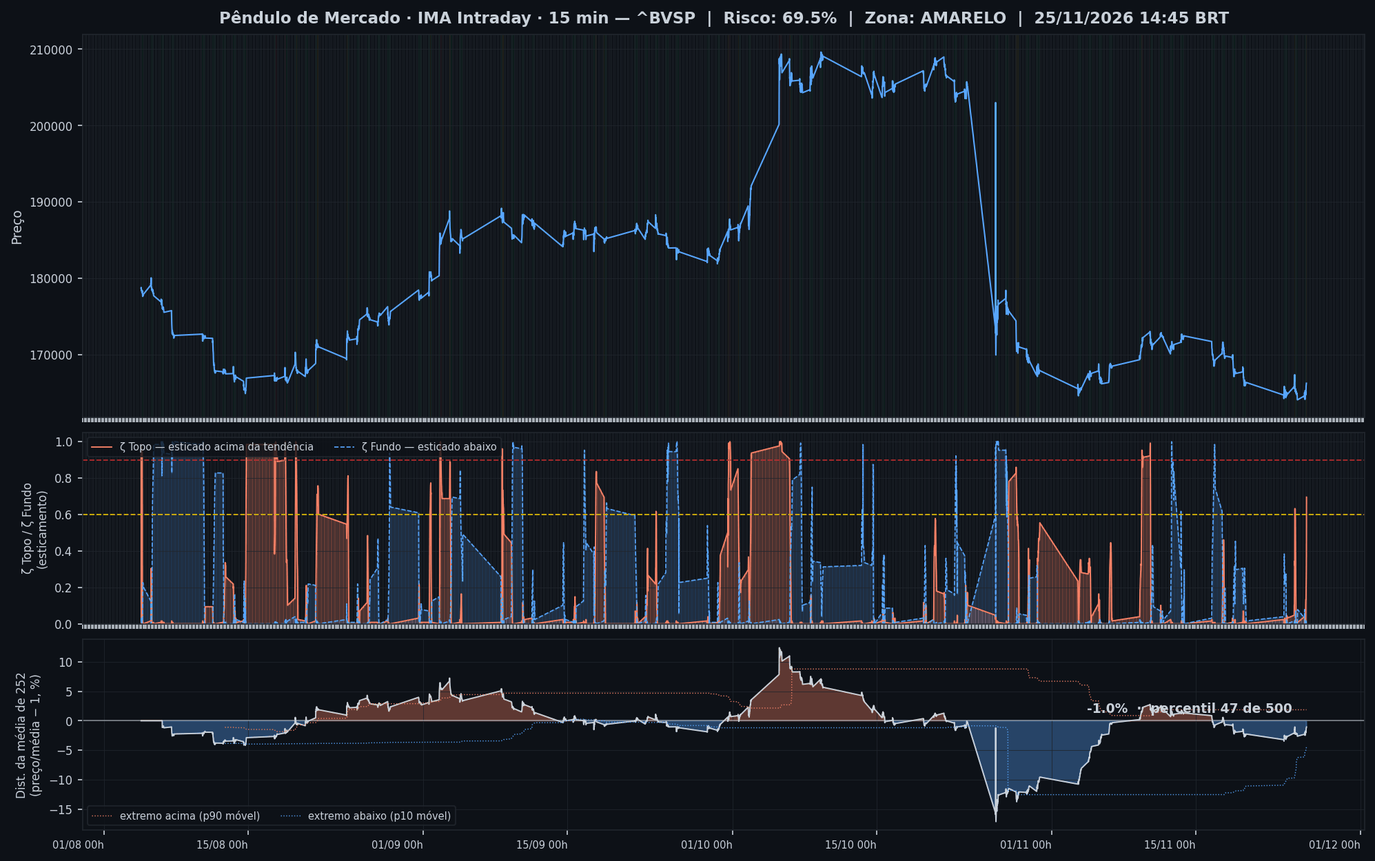
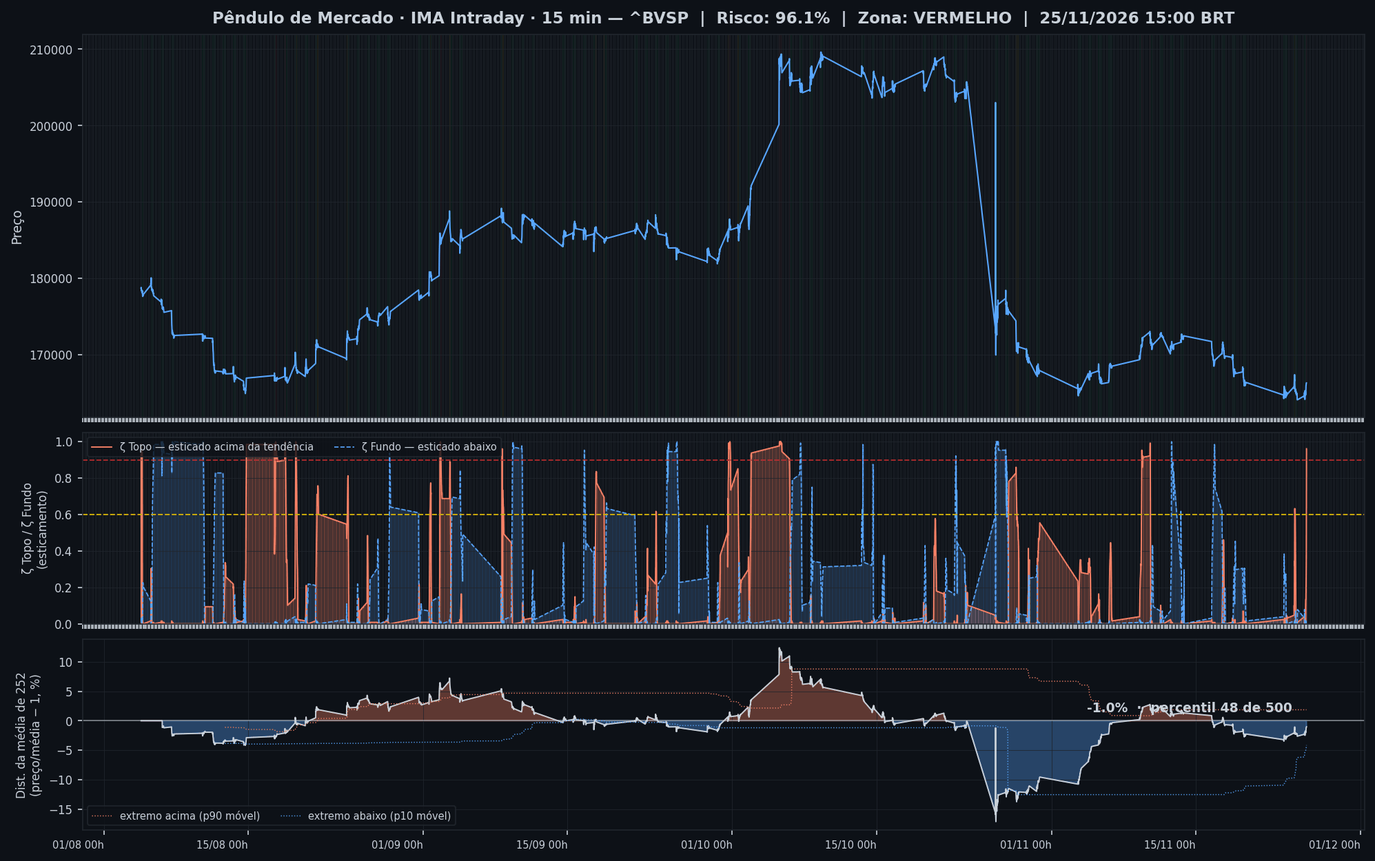
🤖 Auto: Sinal 25/11/2026 15:15

diff --git a/content/intraday/2026-11-25.md b/content/intraday/2026-11-25.md
@@ -1,35 +1,35 @@
 ---
-title: "🟡 Intraday 25/11/2026 14:45 BRT — AMARELO"
+title: "🔴 Intraday 25/11/2026 15:00 BRT — VERMELHO"
 date: 2026-11-25
 tags: [intraday]
 ---
 
-<p style="margin:.4rem 0 .2rem"><span style="display:inline-block;text-align:center;margin:0 1.8rem .2rem 0"><span style="font-size:4rem;font-weight:800;line-height:1;color:#d29922">70%</span><br><span style="font-size:.95rem;opacity:.75">ζ Topo</span></span><span style="display:inline-block;text-align:center;margin:0 1.8rem .2rem 0"><span style="font-size:4rem;font-weight:800;line-height:1;color:inherit">0%</span><br><span style="font-size:.95rem;opacity:.75">ζ Fundo</span></span><span style="display:inline-block;text-align:center;margin:0 1.8rem .2rem 0"><span style="font-size:4rem;font-weight:800;line-height:1;color:inherit">−1,0%</span><br><span style="font-size:.95rem;opacity:.75">Dist. da média · p47</span></span></p><p style="margin:0 0 .9rem;opacity:.7;font-size:.9rem">25/11/2026 14:45 BRT · candles de 15 min</p>
+<p style="margin:.4rem 0 .2rem"><span style="display:inline-block;text-align:center;margin:0 1.8rem .2rem 0"><span style="font-size:4rem;font-weight:800;line-height:1;color:#e5534b">96%</span><br><span style="font-size:.95rem;opacity:.75">ζ Topo</span></span><span style="display:inline-block;text-align:center;margin:0 1.8rem .2rem 0"><span style="font-size:4rem;font-weight:800;line-height:1;color:inherit">0%</span><br><span style="font-size:.95rem;opacity:.75">ζ Fundo</span></span><span style="display:inline-block;text-align:center;margin:0 1.8rem .2rem 0"><span style="font-size:4rem;font-weight:800;line-height:1;color:inherit">−1,0%</span><br><span style="font-size:.95rem;opacity:.75">Dist. da média · p48</span></span></p><p style="margin:0 0 .9rem;opacity:.7;font-size:.9rem">25/11/2026 15:00 BRT · candles de 15 min</p>
 
-> [!warning] Onde o mercado está agora (25/11 14:45, candles de 15 min): **🟡 Esticado para cima**
-> `Pânico ◀─────────────────●───▶ Euforia` · ζ Topo **70%** · ζ Fundo **0%** · régua = ζ Topo − ζ Fundo = **+70 p.p.**
+> [!danger] Onde o mercado está agora (25/11 15:00, candles de 15 min): **🔴 Euforia extrema**
+> `Pânico ◀────────────────────●▶ Euforia` · ζ Topo **96%** · ζ Fundo **0%** · régua = ζ Topo − ζ Fundo = **+96 p.p.**
 >
-> **O Ibovespa sobe 1,32% agora, aos 166.262 pontos.** O preço subiu mais rápido que o normal e está acima da sua faixa habitual.
+> **O Ibovespa sobe 1,35% agora, aos 166.299 pontos.** O preço subiu muito acima da sua tendência. Historicamente, foi a fase com maior risco de correção.
 >
 > *Leitura educacional baseada em 26 anos de dados. Não é recomendação de investimento.*
 
-> [!warning] IMA Intraday · 15 min (25/11 14:45): 🟡 **AMARELO** — ζ Topo **70%** · ▲ +32 p.p. vs leitura anterior
-> `██████████████░░░░░░` **70%**
-> Atenção — preço esticado acima da tendência.
+> [!danger] IMA Intraday · 15 min (25/11 15:00): 🔴 **VERMELHO** — ζ Topo **96%** · ▲ +27 p.p. vs leitura anterior
+> `███████████████████░` **96%**
+> ALERTA — esticamento extremo (ζ ≥ 0,90): risco de reversão.
 
 
-> [!warning] ⚠ Nível alto agora — IMA Intraday · 15 min (25/11 14:45)
-> - 🟡 **ζ Topo 70%** — preço esticado acima da tendência (risco de reversão)
+> [!danger] 🚨 Nível EXTREMO agora — IMA Intraday · 15 min (25/11 15:00)
+> - 🔴 **ζ Topo 96%** — preço esticado acima da tendência (risco de reversão)
 
 
 
-| Indicador — IMA Intraday · 15 min (25/11 14:45) | Valor |
+| Indicador — IMA Intraday · 15 min (25/11 15:00) | Valor |
 |---|---|
-| 🟡 ζ Topo — preço esticado acima da tendência | 🟡 **70%** |
+| 🔴 ζ Topo — preço esticado acima da tendência | 🔴 **96%** |
 | ζ Fundo — preço esticado abaixo da tendência | 0% |
-| 🟡 Zona | AMARELO |
-| 📊 Ibovespa | 166.262 pts <span style="color:#3fb950" title="subiu">▲</span> (+0,09%) |
-| 📏 Distância da média | −1,0% (p47) |
+| 🔴 Zona | VERMELHO |
+| 📊 Ibovespa | 166.299 pts <span style="color:#3fb950" title="subiu">▲</span> (+0,02%) |
+| 📏 Distância da média | −1,0% (p48) |
 | 🛰 Fonte do preço | preço da corretora, tempo real |
 
 
@@ -40,6 +40,7 @@ tags: [intraday]
 
 | Data | Fechamento | Zona | Evento | ζ Topo | ζ Fundo | Dist. média |
 |---|---|---|---|---|---|---|
+| 2026-11-25 15:00 | 166.299 <span style="color:#3fb950" title="subiu">▲</span> | 🔴 |  | 🔴 **96%** | **0%** | −1,0% (p48) |
 | 2026-11-25 14:45 | 166.262 <span style="color:#3fb950" title="subiu">▲</span> | 🟡 |  | 🟡 **70%** | **0%** | −1,0% (p47) |
 | 2026-11-25 14:30 | 166.106 <span style="color:#3fb950" title="subiu">▲</span> | 🟢 |  | **38%** | **0%** | −1,1% (p47) |
 | 2026-11-25 14:15 | 166.031 <span style="color:#3fb950" title="subiu">▲</span> | 🟢 |  | **28%** | **1%** | −1,2% (p47) |
@@ -69,54 +70,53 @@ tags: [intraday]
 | 2026-11-24 16:30 | 164.958 <span style="color:#3fb950" title="subiu">▲</span> | 🟢 |  | **0%** | **0%** | −2,2% (p36) |
 | 2026-11-24 16:15 | 164.905 <span style="color:#f85149" title="caiu">▼</span> | 🟢 |  | **0%** | **0%** | −2,2% (p35) |
 | 2026-11-24 16:00 | 164.974 <span style="color:#3fb950" title="subiu">▲</span> | 🟢 |  | **0%** | **0%** | −2,2% (p35) |
-| 2026-11-24 15:45 | 164.852 <span style="color:#f85149" title="caiu">▼</span> | 🟢 |  | **0%** | **0%** | −2,3% (p33) |
 
 <small>Destaques: 🟡 ≥ 60% · 🔴 ≥ 90% (ζ Topo) · 🔵 ≥ 60% · 🔪 ≥ 90% (ζ Fundo)<br>**Zona**: 🟢 calmo, 🟡 atenção e 🔴 extremo vêm do ζ Topo; 🔵 FUNDO (ζ Fundo ≥ 60%) e 🔪 FACA (≥ 90%) vêm do ζ Fundo e têm precedência, porque queda em andamento é fato medido, não previsão.<br>**Dist. média**: a distância do preço à média dos 252 candles de 15 min — **≈ 7,6 pregões**, medido em 33 barras por pregão — e, entre parênteses, o percentil dessa distância nos 500 candles anteriores (**≈ 15 pregões**). `−8,2% (p0)` = o preço está 8,2% **abaixo** da média e nunca esteve tão abaixo em toda a janela. 🔵 ≤ p10 · 🔴 ≥ p90. É a régua simples contra a qual o ζ precisa provar que acrescenta algo.</small>
 
 ## Monitor Multi-Ativo
 
-**30% dos ativos em tensão** (8 de 27 · 2🔵 3🔴 3🟡) · leitura de 25/11 15:00 BRT, candles de 15 min — quanto mais ativos disparam juntos, mais confiável o sinal. 🔪 e 🔵 vêm do ζ Fundo; 🔴 e 🟡, do ζ Topo.
+**30% dos ativos em tensão** (8 de 27 · 2🔵 3🔴 3🟡) · leitura de 25/11 15:15 BRT, candles de 15 min — quanto mais ativos disparam juntos, mais confiável o sinal. 🔪 e 🔵 vêm do ζ Fundo; 🔴 e 🟡, do ζ Topo.
 
 *Origem do preço: 26 da corretora, em tempo real · 1 da reserva, com cerca de 45 min de atraso (USD/BRL).*
 
 > [!danger] Em destaque no multi-ativo
-> 🔴 **EQUATORIAL** `EQTL3` ζ Topo 100% · 🔴 **ENEVA** `ENEV3` ζ Topo 99% · 🔴 **SABESP** `SBSP3` ζ Topo 97% · 🟡 **GERDAU** `GGBR4` ζ Topo 77% · 🔵 **EMBRAER** `EMBJ3` ζ Fundo 75% · 🟡 **ULTRAPAR** `UGPA3` ζ Topo 71% · 🔵 **AMBEV S/A** `ABEV3` ζ Fundo 70% · 🟡 **VIBRA** `VBBR3` ζ Topo 66%
+> 🔴 **EQUATORIAL** `EQTL3` ζ Topo 99% · 🔴 **SABESP** `SBSP3` ζ Topo 97% · 🔴 **ENEVA** `ENEV3` ζ Topo 95% · 🔵 **AMBEV S/A** `ABEV3` ζ Fundo 82% · 🟡 **GERDAU** `GGBR4` ζ Topo 79% · 🔵 **EMBRAER** `EMBJ3` ζ Fundo 70% · 🟡 **ULTRAPAR** `UGPA3` ζ Topo 67%
 
 | Zona | Ativo | Setor | Fechamento | ζ Topo | ζ Fundo | Dist. média |
 |---|---|---|---|---|---|---|
-| 🔴 | **EQUATORIAL** `EQTL3` | Energia | 34,66 <span style="color:#3fb950" title="subiu">▲</span> | 🔴 **100.0%** | 0.0% | +3,0% (p88) |
-| 🔴 | **ENEVA** `ENEV3` | Energia | 27,32 <span style="color:#3fb950" title="subiu">▲</span> | 🔴 **99.2%** | 0.0% | +3,2% (p84) |
-| 🔴 | **SABESP** `SBSP3` | Saneamento | 28,43 <span style="color:#3fb950" title="subiu">▲</span> | 🔴 **96.9%** | 0.0% | +3,2% (p60) |
-| 🟡 | **GERDAU** `GGBR4` | Siderurgia | 26,12 <span style="color:#3fb950" title="subiu">▲</span> | 🟡 **76.6%** | 0.0% | 🔴 +3,8% (p99) |
-| 🔵 | **EMBRAER** `EMBJ3` | Outros | 102,94 <span style="color:#3fb950" title="subiu">▲</span> | 0.0% | 🔵 **75.0%** | 🔵 −5,3% (p4) |
-| 🟡 | **ULTRAPAR** `UGPA3` | Outros | 30,55 <span style="color:#f85149" title="caiu">▼</span> | 🟡 **71.1%** | 0.0% | −0,7% (p57) |
-| 🔵 | **AMBEV S/A** `ABEV3` | Consumo | 16,06 <span style="color:#f85149" title="caiu">▼</span> | 0.8% | 🔵 **69.5%** | +0,7% (p21) |
-| 🟡 | **VIBRA** `VBBR3` | Energia | 31,76 <span style="color:#f85149" title="caiu">▼</span> | 🟡 **65.6%** | 0.0% | +3,6% (p76) |
-| 🟢 | **WEG** `WEGE3` | Industrial | 49,55 <span style="color:#3fb950" title="subiu">▲</span> | 6.2% | 53.9% | 🔵 −2,4% (p9) |
-| 🟢 | **VALE** `VALE3` | Mineração | 56,88 <span style="color:#3fb950" title="subiu">▲</span> | 49.2% | 0.0% | −4,4% (p38) |
-| 🟢 | **AXIA ENERGIA** `AXIA3` | Energia | 46,48 <span style="color:#3fb950" title="subiu">▲</span> | 49.2% | 0.0% | −0,9% (p61) |
-| 🟢 | **USD/BRL** `USDBRL=X` | Câmbio | 5,81 <span style="color:#f85149" title="caiu">▼</span> | 0.0% | 47.7% | 🔵 −0,4% (p0) |
-| 🟢 | **RUMO S.A.** `RAIL3` | Outros | 17,15 <span style="color:#f85149" title="caiu">▼</span> | 0.0% | 43.8% | +2,9% (p39) |
-| 🟢 | **TELEF BRASIL** `VIVT3` | Outros | 34,68 <span style="color:#f85149" title="caiu">▼</span> | 0.0% | 40.6% | −1,0% (p11) |
-| 🟢 | **LOCALIZA** `RENT3` | Aluguel | 29,08 <span style="color:#3fb950" title="subiu">▲</span> | 2.3% | 36.7% | −1,0% (p51) |
-| 🟢 | **PETROBRAS** `PETR4` | Petróleo | 41,17 <span style="color:#f85149" title="caiu">▼</span> | 35.2% | 0.0% | −4,4% (p61) |
-| 🟢 | **BRASIL** `BBAS3` | Financeiro | 14,65 <span style="color:#3fb950" title="subiu">▲</span> | 32.8% | 0.0% | +0,6% (p75) |
-| 🟢 | **BTGP BANCO** `BPAC11` | Financeiro | 51,52 <span style="color:#3fb950" title="subiu">▲</span> | 32.0% | 0.0% | −0,1% (p74) |
-| 🟢 | **PETROBRAS** `PETR3` | Petróleo | 46,82 <span style="color:#f85149" title="caiu">▼</span> | 18.8% | 0.0% | −4,7% (p59) |
-| 🟢 | **B3** `B3SA3` | Financeiro | 14,51 <span style="color:#3fb950" title="subiu">▲</span> | 18.8% | 0.0% | +0,2% (p49) |
-| 🟢 | **ITAUSA** `ITSA4` | Financeiro | 13,05 <span style="color:#3fb950" title="subiu">▲</span> | 17.2% | 0.0% | −1,4% (p40) |
-| 🟢 | **BRADESCO** `BBDC4` | Financeiro | 14,00 <span style="color:#3fb950" title="subiu">▲</span> | 17.2% | 0.0% | −0,6% (p56) |
-| 🟢 | **PRIO** `PRIO3` | Petróleo | 60,83 <span style="color:#3fb950" title="subiu">▲</span> | 16.4% | 0.0% | −1,2% (p66) |
-| 🟢 | **COPEL** `CPLE3` | Energia | 15,06 <span style="color:#3fb950" title="subiu">▲</span> | 0.8% | 15.6% | −1,0% (p23) |
-| 🟢 | **REDE D OR** `RDOR3` | Saúde | 36,36 <span style="color:#f85149" title="caiu">▼</span> | 0.8% | 14.1% | +0,9% (p18) |
-| 🟢 | **ITAUUNIBANCO** `ITUB4` | Financeiro | 39,86 <span style="color:#3fb950" title="subiu">▲</span> | 13.3% | 0.0% | −1,9% (p40) |
-| 🟢 | **SUZANO S.A.** `SUZB3` | Papel/Celulose | 55,80 <span style="color:#f85149" title="caiu">▼</span> | 3.9% | 0.0% | +0,7% (p22) |
+| 🔴 | **EQUATORIAL** `EQTL3` | Energia | 34,55 <span style="color:#f85149" title="caiu">▼</span> | 🔴 **99.2%** | 0.0% | +2,6% (p85) |
+| 🔴 | **SABESP** `SBSP3` | Saneamento | 28,36 <span style="color:#f85149" title="caiu">▼</span> | 🔴 **96.9%** | 0.0% | +2,9% (p56) |
+| 🔴 | **ENEVA** `ENEV3` | Energia | 27,27 <span style="color:#f85149" title="caiu">▼</span> | 🔴 **95.3%** | 0.8% | +3,0% (p83) |
+| 🔵 | **AMBEV S/A** `ABEV3` | Consumo | 15,95 <span style="color:#f85149" title="caiu">▼</span> | 1.6% | 🔵 **82.0%** | −0,0% (p11) |
+| 🟡 | **GERDAU** `GGBR4` | Siderurgia | 26,16 <span style="color:#3fb950" title="subiu">▲</span> | 🟡 **78.9%** | 0.8% | 🔴 +4,0% (p100) |
+| 🔵 | **EMBRAER** `EMBJ3` | Outros | 103,26 <span style="color:#3fb950" title="subiu">▲</span> | 1.6% | 🔵 **70.3%** | 🔵 −5,0% (p4) |
+| 🟡 | **ULTRAPAR** `UGPA3` | Outros | 30,53 <span style="color:#f85149" title="caiu">▼</span> | 🟡 **67.2%** | 0.0% | −0,7% (p57) |
+| 🟡 | **VIBRA** `VBBR3` | Energia | 31,79 <span style="color:#3fb950" title="subiu">▲</span> | 53.9% | 0.0% | +3,7% (p77) |
+| 🟢 | **USD/BRL** `USDBRL=X` | Câmbio | 5,81 <span style="color:#f85149" title="caiu">▼</span> | 0.0% | 53.9% | 🔵 −0,4% (p0) |
+| 🟢 | **VALE** `VALE3` | Mineração | 56,91 <span style="color:#3fb950" title="subiu">▲</span> | 53.1% | 0.0% | −4,3% (p39) |
+| 🟢 | **AXIA ENERGIA** `AXIA3` | Energia | 46,30 <span style="color:#f85149" title="caiu">▼</span> | 50.8% | 0.0% | −1,2% (p54) |
+| 🟢 | **WEG** `WEGE3` | Industrial | 49,72 <span style="color:#3fb950" title="subiu">▲</span> | 8.6% | 45.3% | −2,0% (p13) |
+| 🟢 | **RUMO S.A.** `RAIL3` | Outros | 17,11 <span style="color:#f85149" title="caiu">▼</span> | 0.0% | 44.5% | +2,6% (p34) |
+| 🟢 | **PETROBRAS** `PETR4` | Petróleo | 41,28 <span style="color:#3fb950" title="subiu">▲</span> | 39.8% | 0.0% | −4,1% (p63) |
+| 🟢 | **TELEF BRASIL** `VIVT3` | Outros | 34,65 <span style="color:#f85149" title="caiu">▼</span> | 0.0% | 35.9% | −1,1% (p11) |
+| 🟢 | **BRASIL** `BBAS3` | Financeiro | 14,61 <span style="color:#f85149" title="caiu">▼</span> | 35.2% | 0.0% | +0,4% (p74) |
+| 🟢 | **BTGP BANCO** `BPAC11` | Financeiro | 51,96 <span style="color:#3fb950" title="subiu">▲</span> | 33.6% | 0.0% | +0,8% (p75) |
+| 🟢 | **LOCALIZA** `RENT3` | Aluguel | 29,08 <span style="opacity:.45" title="estável">▬</span> | 4.7% | 33.6% | −1,0% (p51) |
+| 🟢 | **BRADESCO** `BBDC4` | Financeiro | 14,00 <span style="opacity:.45" title="estável">▬</span> | 29.7% | 0.8% | −0,6% (p56) |
+| 🟢 | **ITAUSA** `ITSA4` | Financeiro | 13,06 <span style="color:#3fb950" title="subiu">▲</span> | 25.0% | 0.0% | −1,4% (p41) |
+| 🟢 | **PRIO** `PRIO3` | Petróleo | 60,97 <span style="color:#3fb950" title="subiu">▲</span> | 22.7% | 0.0% | −0,9% (p67) |
+| 🟢 | **COPEL** `CPLE3` | Energia | 15,04 <span style="color:#f85149" title="caiu">▼</span> | 0.0% | 22.7% | −1,1% (p21) |
+| 🟢 | **PETROBRAS** `PETR3` | Petróleo | 46,89 <span style="color:#3fb950" title="subiu">▲</span> | 21.1% | 0.0% | −4,5% (p60) |
+| 🟢 | **B3** `B3SA3` | Financeiro | 14,52 <span style="color:#3fb950" title="subiu">▲</span> | 18.8% | 0.8% | +0,2% (p49) |
+| 🟢 | **ITAUUNIBANCO** `ITUB4` | Financeiro | 40,00 <span style="color:#3fb950" title="subiu">▲</span> | 16.4% | 0.0% | −1,6% (p44) |
+| 🟢 | **REDE D OR** `RDOR3` | Saúde | 36,37 <span style="color:#3fb950" title="subiu">▲</span> | 0.0% | 14.8% | +0,9% (p18) |
+| 🟢 | **SUZANO S.A.** `SUZB3` | Papel/Celulose | 55,71 <span style="color:#f85149" title="caiu">▼</span> | 3.1% | 0.0% | +0,6% (p20) |
 
 <small>Destaques: 🟡 ≥ 60% · 🔴 ≥ 90% (ζ Topo) · 🔵 ≥ 60% · 🔪 ≥ 90% (ζ Fundo)<br>**Zona**: 🟢 calmo, 🟡 atenção e 🔴 extremo vêm do ζ Topo; 🔵 FUNDO (ζ Fundo ≥ 60%) e 🔪 FACA (≥ 90%) vêm do ζ Fundo e têm precedência, porque queda em andamento é fato medido, não previsão.<br>**Dist. média**: a distância do preço à média dos 252 candles de 15 min — **≈ 7,6 pregões**, medido em 33 barras por pregão — e, entre parênteses, o percentil dessa distância nos 500 candles anteriores (**≈ 15 pregões**). `−8,2% (p0)` = o preço está 8,2% **abaixo** da média e nunca esteve tão abaixo em toda a janela. 🔵 ≤ p10 · 🔴 ≥ p90. É a régua simples contra a qual o ζ precisa provar que acrescenta algo.</small>
 
 ![Monitor multi-ativo](../graficos/multi_intraday.png)
 
-*Página atualizada em 25/11/2026 15:00 BRT (leitura da barra de 2026-11-25 14:45 BRT · preço da corretora, tempo real).*
+*Página atualizada em 25/11/2026 15:15 BRT (leitura da barra de 2026-11-25 15:00 BRT · preço da corretora, tempo real).*
 
 > [!warning] O que este indicador não faz
 > Medido em 5 anos de Ibovespa, o ζ **não antecipa** topos nem fundos: a capacidade de separar o que sobe do que cai ficou em 0,49–0,52, e 0,50 é moeda jogada ao ar. Ele descreve o estado de agora; não é aviso do que vem. As zonas verde/amarelo/vermelho continuam na página como descrição desse estado — **não as use como sinal de entrada ou saída**.

diff --git a/content/index.md b/content/index.md
@@ -7,23 +7,23 @@ tags: [home]
 
 **As ondas do mercado, explicadas.** Leitura do Ibovespa com estatística de 26 anos, baseada no trabalho de pesquisadores e traders reconhecidos e adaptada por Jarbas Daniel da Costa.
 
-*Última atualização: 25/11/2026 15:00 BRT · Intraday 15min · preço da corretora, tempo real*
+*Última atualização: 25/11/2026 15:15 BRT · Intraday 15min · preço da corretora, tempo real*
 
-> [!warning] Onde o mercado está agora (25/11 14:45, candles de 15 min): **🟡 Esticado para cima**
-> `Pânico ◀─────────────────●───▶ Euforia` · ζ Topo **70%** · ζ Fundo **0%** · régua = ζ Topo − ζ Fundo = **+70 p.p.**
+> [!danger] Onde o mercado está agora (25/11 15:00, candles de 15 min): **🔴 Euforia extrema**
+> `Pânico ◀────────────────────●▶ Euforia` · ζ Topo **96%** · ζ Fundo **0%** · régua = ζ Topo − ζ Fundo = **+96 p.p.**
 >
-> **O Ibovespa sobe 1,32% agora, aos 166.262 pontos.** O preço subiu mais rápido que o normal e está acima da sua faixa habitual.
+> **O Ibovespa sobe 1,35% agora, aos 166.299 pontos.** O preço subiu muito acima da sua tendência. Historicamente, foi a fase com maior risco de correção.
 >
 > *Leitura educacional baseada em 26 anos de dados. Não é recomendação de investimento.*
 
-> [!warning] ⚠ Nível alto agora — IMA Intraday · 15 min (25/11 14:45)
-> - 🟡 **ζ Topo 70%** — preço esticado acima da tendência (risco de reversão)
+> [!danger] 🚨 Nível EXTREMO agora — IMA Intraday · 15 min (25/11 15:00)
+> - 🔴 **ζ Topo 96%** — preço esticado acima da tendência (risco de reversão)
 
 ## Agora
 
 | Módulo | Agora | |
 |---|---|---|
-| 🌊 **Sinal IMA** | 🟡 AMARELO · 🟡 esticado para cima · ζ Topo 🟡 **70%** | [relatório](intraday/2026-11-25) |
+| 🌊 **Sinal IMA** | 🔴 VERMELHO · 🔴 euforia extrema · ζ Topo 🔴 **96%** | [relatório](intraday/2026-11-25) |
 | 📈 **Tendência MME9** | Diário — fora<br>Semanal — fora | [abrir](operacoes/tendencia) |
 | 🎯 **Entradas do método** | — nenhuma regra com setup ativo | [abrir](operacoes/entradas) |
 | 📍 **Sinais** | hoje: nenhum sinal | [abrir](sinais-topo-fundo/) |
@@ -33,36 +33,36 @@ tags: [home]
 
 | Data e hora | Módulo | Evento | Detalhe | 📲 |
 |---|---|---|---|---|
+| **25/11/2026 15:15** | IMA · 15 min | 🔴 Zona mudou: AMARELO → VERMELHO | Risco 96% · ζ Topo 96% · ζ Fundo 0% · LPPL 0% | — |
+| **25/11/2026 15:15** | IMA · 15 min | 🔴 ζ Topo entrou em nível EXTREMO | Risco 96% · ζ Topo 96% · ζ Fundo 0% · LPPL 0% | ✅ |
 | **25/11/2026 15:00** | IMA · 15 min | 🟡 Zona mudou: VERDE → AMARELO | Risco 70% · ζ Topo 70% · ζ Fundo 0% · LPPL 0% | — |
 | **25/11/2026 15:00** | IMA · 15 min | 🟡 ζ Topo entrou em nível alto | Risco 70% · ζ Topo 70% · ζ Fundo 0% · LPPL 0% | ✅ |
 | **24/11/2026 13:15** | IMA · 15 min | 🟢 Zona mudou: AMARELO → VERDE | Risco 41% · ζ Topo 41% · ζ Fundo 6% · LPPL 0% | — |
-| **24/11/2026 11:45** | IMA · 15 min | 🟡 Zona mudou: VERDE → AMARELO | Risco 62% · ζ Topo 62% · ζ Fundo 0% · LPPL 0% | — |
-| **24/11/2026 11:45** | IMA · 15 min | 🟡 ζ Topo entrou em nível alto | Risco 62% · ζ Topo 62% · ζ Fundo 0% · LPPL 0% | ✅ |
 
 *[Linha do tempo completa](linha-do-tempo/) — todo sinal, ordem, stop e aviso, do mais recente para o mais antigo. ⚡ = vale durante o pregão · ⏱ = no fechamento.*
 
 > [!info]- 🌊 Detalhes do Sinal IMA (indicadores e últimos 7 pregões)
-> > [!warning] IMA Intraday · 15 min (25/11 14:45): 🟡 **AMARELO** — ζ Topo **70%** · ▲ +32 p.p. vs leitura anterior
-> > `██████████████░░░░░░` **70%**
-> > Atenção — preço esticado acima da tendência.
+> > [!danger] IMA Intraday · 15 min (25/11 15:00): 🔴 **VERMELHO** — ζ Topo **96%** · ▲ +27 p.p. vs leitura anterior
+> > `███████████████████░` **96%**
+> > ALERTA — esticamento extremo (ζ ≥ 0,90): risco de reversão.
 >
 >
-> | Indicador — IMA Intraday · 15 min (25/11 14:45) | Valor |
+> | Indicador — IMA Intraday · 15 min (25/11 15:00) | Valor |
 > |---|---|
-> | 🟡 ζ Topo — preço esticado acima da tendência | 🟡 **70%** |
+> | 🔴 ζ Topo — preço esticado acima da tendência | 🔴 **96%** |
 > | ζ Fundo — preço esticado abaixo da tendência | 0% |
-> | 🟡 Zona | AMARELO |
-> | 📊 Ibovespa | 166.262 pts <span style="color:#3fb950" title="subiu">▲</span> (+0,09%) |
-> | 📏 Distância da média | −1,0% (p47) |
+> | 🔴 Zona | VERMELHO |
+> | 📊 Ibovespa | 166.299 pts <span style="color:#3fb950" title="subiu">▲</span> (+0,02%) |
+> | 📏 Distância da média | −1,0% (p48) |
 > | 🛰 Fonte do preço | preço da corretora, tempo real |
 >
-> **Multi-ativo:** 22% em tensão (3🔴 3🟡 de 27 ativos)
+> **Multi-ativo:** 19% em tensão (3🔴 3🟡 de 27 ativos)
 >
 > **Últimos 7 pregões**
 >
 > | Data | Fechamento | Zona | ζ Topo | ζ Fundo | Dist. média |
 > |---|---|---|---|---|---|
-> | [25/11/2026](intraday/2026-11-25) | 166.262 <span style="color:#3fb950" title="subiu">▲</span> | 🟡 | 🟡 **70%** | **0%** | −1,0% (p47) |
+> | [25/11/2026](intraday/2026-11-25) | 166.299 <span style="color:#3fb950" title="subiu">▲</span> | 🔴 | 🔴 **96%** | **0%** | −1,0% (p48) |
 > | [24/11/2026](intraday/2026-11-24) | 164.090 <span style="opacity:.45" title="estável">▬</span> | 🟢 | **1%** | **8%** | −2,6% (p27) |
 >
 > <small>Destaques: 🟡 ≥ 60% · 🔴 ≥ 90% (ζ Topo) · 🔵 ≥ 60% · 🔪 ≥ 90% (ζ Fundo)<br>**Zona**: 🟢 calmo, 🟡 atenção e 🔴 extremo vêm do ζ Topo; 🔵 FUNDO (ζ Fundo ≥ 60%) e 🔪 FACA (≥ 90%) vêm do ζ Fundo e têm precedência, porque queda em andamento é fato medido, não previsão.<br>**Dist. média**: a distância do preço à média dos 252 pregões — **≈ 1 ano** — e, entre parênteses, o percentil dessa distância nos 500 pregões anteriores (**≈ 2 anos**). `−8,2% (p0)` = o preço está 8,2% **abaixo** da média e nunca esteve tão abaixo em toda a janela. 🔵 ≤ p10 · 🔴 ≥ p90. É a régua simples contra a qual o ζ precisa provar que acrescenta algo.</small>

diff --git a/content/linha-do-tempo/index.md b/content/linha-do-tempo/index.md
@@ -5,7 +5,7 @@ description: "Todo sinal, ordem, stop e aviso do Pêndulo de Mercado, do mais re
 tags: [eventos]
 ---
 
-*Atualizada 25/11/2026 15:00 BRT · a cada 15 min no pregão e às 19h.*
+*Atualizada 25/11/2026 15:15 BRT · a cada 15 min no pregão e às 19h.*
 
 Tudo o que o sistema fez ou detectou, **do mais recente para o mais antigo**: sinais de topo e fundo, ordens de compra e de venda armadas, compras, vendas, stops, avisos de 🚨 preço perto do nível e mudanças do Sinal IMA. Os **últimos 7 dias** ficam abertos; o resto, por **ano → mês → dia**.
 
@@ -18,10 +18,12 @@ Tudo o que o sistema fez ou detectou, **do mais recente para o mais antigo**: si
 
 ## Últimos 7 dias
 
-### Hoje · qua, 25/11/2026 · 2 eventos
+### Hoje · qua, 25/11/2026 · 4 eventos
 
 | Hora | Módulo | Evento | Detalhe | 📲 |
 |---|---|---|---|---|
+| **15:15** | IMA · 15 min | 🔴 Zona mudou: AMARELO → VERMELHO | Risco 96% · ζ Topo 96% · ζ Fundo 0% · LPPL 0% | — |
+| **15:15** | IMA · 15 min | 🔴 ζ Topo entrou em nível EXTREMO | Risco 96% · ζ Topo 96% · ζ Fundo 0% · LPPL 0% | ✅ |
 | **15:00** | IMA · 15 min | 🟡 Zona mudou: VERDE → AMARELO | Risco 70% · ζ Topo 70% · ζ Fundo 0% · LPPL 0% | — |
 | **15:00** | IMA · 15 min | 🟡 ζ Topo entrou em nível alto | Risco 70% · ζ Topo 70% · ζ Fundo 0% · LPPL 0% | ✅ |
 
@@ -45,7 +47,7 @@ Clique no ano; na página do ano, clique no mês e depois no dia.
 
 | Ano | Eventos | 🟢 Compras | ⚪🔴 Vendas e stops | 📌⚠ Ordens armadas | Sinais |
 |---|---|---|---|---|---|
-| **[2026](linha-do-tempo/2026)** | 218 | 20 | 42 | 33 | 40 |
+| **[2026](linha-do-tempo/2026)** | 220 | 20 | 44 | 33 | 40 |
 | **[2025](linha-do-tempo/2025)** | 111 | 29 | 24 | 43 | 11 |
 | **[2024](linha-do-tempo/2024)** | 154 | 40 | 44 | 57 | 3 |
 | **[2023](linha-do-tempo/2023)** | 99 | 22 | 22 | 53 | 1 |

diff --git a/content/linha-do-tempo/2026.md b/content/linha-do-tempo/2026.md
@@ -5,14 +5,16 @@ description: "Todos os eventos de 2026, por mês e por dia"
 tags: [eventos]
 ---
 
-[← Linha do tempo](linha-do-tempo/) · **218 eventos em 2026**. Clique no mês e depois no dia. ⚡ = vale durante o pregão · ⏱ = no fechamento · 📲 ✅ avisado, — sem aviso, 📜 histórico simulado.
+[← Linha do tempo](linha-do-tempo/) · **220 eventos em 2026**. Clique no mês e depois no dia. ⚡ = vale durante o pregão · ⏱ = no fechamento · 📲 ✅ avisado, — sem aviso, 📜 histórico simulado.
 
-> [!abstract]- Novembro de 2026 · 23 eventos <small>(0 compras · 4 vendas/stops · 1 ordens armadas · 0 sinais)</small>
+> [!abstract]- Novembro de 2026 · 25 eventos <small>(0 compras · 6 vendas/stops · 1 ordens armadas · 0 sinais)</small>
 >
-> > [!note] qua, 25/11/2026 · 2 eventos 🟡
+> > [!note] qua, 25/11/2026 · 4 eventos 🔴 🟡
 > >
 > > | Hora | Módulo | Evento | Detalhe | 📲 |
 > > |---|---|---|---|---|
+> > | **15:15** | IMA · 15 min | 🔴 Zona mudou: AMARELO → VERMELHO | Risco 96% · ζ Topo 96% · ζ Fundo 0% · LPPL 0% | — |
+> > | **15:15** | IMA · 15 min | 🔴 ζ Topo entrou em nível EXTREMO | Risco 96% · ζ Topo 96% · ζ Fundo 0% · LPPL 0% | ✅ |
 > > | **15:00** | IMA · 15 min | 🟡 Zona mudou: VERDE → AMARELO | Risco 70% · ζ Topo 70% · ζ Fundo 0% · LPPL 0% | — |
 > > | **15:00** | IMA · 15 min | 🟡 ζ Topo entrou em nível alto | Risco 70% · ζ Topo 70% · ζ Fundo 0% · LPPL 0% | ✅ |
 >

diff --git a/content/operacoes/entradas.md b/content/operacoes/entradas.md
@@ -81,7 +81,7 @@ description: "Compra depois de um sinal de fundo: Nadaraya no diário, semáforo
 > | H4 · Semáforo N2 | 05/05/26 10h a 186.583 | 07/05/26 10h a 186.583 | **+0,0%** | stop no preço de entrada |
 > | Semanal · Semáforo N2 | semana de 17/02/25 a 127.128 | semana de 13/04/26 a 195.734 | **+54,0%** | limite de 60 candles |
 >
-> <small>Atualizado 24/11 23:08 · checado no pregão às 15:00. Nota: ✅ passou no teste fora da amostra (walk-forward 2008–2026) · 🧪 em teste (H4, com aviso no Telegram) ou em observação (ζ, sem aviso) · 🧪 na tabela = operação do teste ao vivo.</small>
+> <small>Atualizado 24/11 23:08 · checado no pregão às 15:15. Nota: ✅ passou no teste fora da amostra (walk-forward 2008–2026) · 🧪 em teste (H4, com aviso no Telegram) ou em observação (ζ, sem aviso) · 🧪 na tabela = operação do teste ao vivo.</small>
 >
 > *Regras: depois de um sinal de fundo, o Diário entra quando o Nadaraya vira para cima; o Semanal e o H4 entram quando um fundo do semáforo fica fixo. Stop e saída de cada regra na [metodologia](metodologia/regras-de-operacao#entradas-do-método). Nenhuma regra de venda passou no teste. Os números do histórico têm viés de escolha (overfitting); o placar ao vivo é o que vale. Leitura educacional do método, não recomendação.*
 

diff --git a/content/integridade/index.md b/content/integridade/index.md
@@ -6,7 +6,7 @@ description: "O que foi conferido, contra qual fonte e quando — medido na hora
 tags: [integridade]
 ---
 
-*Pregão conferido: **24/11/2026**, com 59 tabelas no acervo · página gerada em 25/11/2026 15:00*
+*Pregão conferido: **24/11/2026**, com 59 tabelas no acervo · página gerada em 25/11/2026 15:15*
 
 O pregão conferido é o último **fechado e arquivado inteiro**, não o de hoje: enquanto o dia corre, só algumas tabelas estão gravadas, e conferir um dia pela metade produziria alarme falso.
 
@@ -23,7 +23,7 @@ Esta página não declara que o site está correto. Ela **mede** e escreve o res
 | Tabelas com conteúdo fora da curva | **1** — veja a seção 1 |
 | Páginas publicadas | 370 |
 | Conferências cruzadas das páginas | 71 certas, nenhuma divergência |
-| Página escrita mais recentemente | 25/11 15:00 |
+| Página escrita mais recentemente | 25/11 15:15 |
 | Páginas sem data no cabeçalho | 9 — cegas para a conferência de dado |
 
 ## 1 · Acervo do boletim diário

diff --git a/content/operacoes/ranking.md b/content/operacoes/ranking.md
@@ -56,7 +56,7 @@ description: "As regras de compra do site ordenadas pelo resultado, com treino, 
 > 
 > Operação **com 🧪** começou depois de **23/10/2026**, com as regras congeladas. É o único resultado sem nenhum ajuste ao passado, e é por ele que cada regra está sendo julgada.
 
-*Atualizado 25/11/2026 15:00 · histórico simulado com as regras congeladas em 23/10/2026 + placar ao vivo.*
+*Atualizado 25/11/2026 15:15 · histórico simulado com as regras congeladas em 23/10/2026 + placar ao vivo.*
 
 As regras de compra do site, **da que mais rendeu para a que menos rendeu**. O resultado é por operação, no índice à vista, sem custos e sem juros compostos (a soma é só a soma das operações). **Treino** = entradas de 2001 a 2013 e **teste** = 2014 em diante: uma regra só é confiável se ganhou nos dois. O único resultado sem nenhum ajuste ao histórico é o **placar ao vivo**.
 

diff --git a/content/historico.md b/content/historico.md
@@ -5,7 +5,7 @@ tags: [historico]
 
 # 📜 Histórico de leituras (v5)
 
-**2.602 leituras** desde 2026-07-03. Na página ficam os últimos 3 dias leitura por leitura e o resumo de cada dia anterior; o registro inteiro está no arquivo para baixar.
+**2.603 leituras** desde 2026-07-03. Na página ficam os últimos 3 dias leitura por leitura e o resumo de cada dia anterior; o registro inteiro está no arquivo para baixar.
 
 [**Baixar o histórico completo**](historico-completo.csv) (114 KB · abre no Excel e no LibreOffice)
 
@@ -18,6 +18,7 @@ tags: [historico]
 
 | Data | Zona | ζ Topo |
 |---|---|---|
+| 2026-11-25 15:00 | 🔴 | 🔴 **96%** |
 | 2026-11-25 14:45 | 🟡 | 🟡 **70%** |
 | 2026-11-25 14:30 | 🟢 | **38%** |
 | 2026-11-25 14:15 | 🟢 | **28%** |

diff --git a/content/lppl.md b/content/lppl.md
@@ -5,7 +5,7 @@ date: 2026-11-25
 
 <p style="margin:.4rem 0 0"><span style="display:inline-block;text-align:center;margin:0 1.8rem .2rem 0"><span style="font-size:4rem;font-weight:800;line-height:1;color:inherit">0%</span><br><span style="font-size:.95rem;opacity:.75">bolha</span></span><span style="display:inline-block;text-align:center;margin:0 1.8rem .2rem 0"><span style="font-size:4rem;font-weight:800;line-height:1;color:inherit">0%</span><br><span style="font-size:.95rem;opacity:.75">antibolha</span></span></p>
 
-**Leitura de 24/11/2026** · pagina gerada em 25/11/2026 15:00 BRT
+**Leitura de 24/11/2026** · pagina gerada em 25/11/2026 15:15 BRT
 
 Acima de 30% o sinal deixa de ser ruido. O LPPL **nao** decide o semaforo do site — veja a nota no fim.
 

diff --git a/content/avisos/index.md b/content/avisos/index.md
@@ -2,7 +2,7 @@
 title: "⚠ Avisos: o que saber antes de usar os números"
 ---
 
-*Gerado em 25/11/2026 15:00*
+*Gerado em 25/11/2026 15:15*
 
 Este site publica muitos números, e cada um tem uma limitação que importa na hora de
 decidir. As limitações estão escritas nas próprias páginas, mas quem chega direto numa
